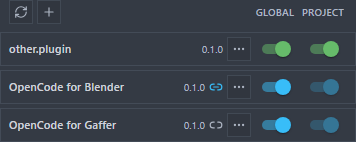
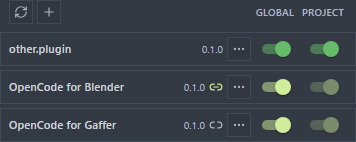
fix(integrations): give integration switches the theme accent, like Yolo
The integration rows' Global/Project switches used a new sky-blue token,
which rendered as a light cyan next to the Yolo switch. CodeNomad switches
use the theme accent everywhere; only plain plugin and MCP activation
switches are the green variant.

The new token is removed from tokens.css. The accent override shared by the
settings and Yolo switches (var(--accent-primary)) becomes ACCENT_SWITCH_SX in
settings-switch.tsx, and PluginActivationSwitch applies it to integration rows
instead of the green variant. The SUID default "primary" colour is not used:
it is read once from the theme and does not follow palette accents. The
attached chain icon uses the accent too.

The browser test turns the real Yolo switch on and checks that its track
and thumb colours equal an integration switch's, and that a plain plugin's
differ. Help pages (ten locales), dev-docs and the documentation captures
are updated.

diff --git a/packages/ui/tests/browser/integration-plugin-row.test.ts b/packages/ui/tests/browser/integration-plugin-row.test.ts
@@ -73,7 +73,7 @@ const resolved = (page: Page, property: string) => page.evaluate(name => {
   return color
 }, property)
 
-test("one Plugins row per integration: display name, version and blue switches; no Status section of its own", async () => {
+test("one Plugins row per integration: display name, version and accent switches; no Status section of its own", async () => {
   const { page, errors } = await open()
   try {
     await row(page).locator(".plugin-control-name").getByText("OpenCode for Blender", { exact: true }).waitFor()
@@ -86,12 +86,19 @@ test("one Plugins row per integration: display name, version and blue switches; 
     assert.equal(await row(page).getAttribute("data-integration"), "blender")
     await row(page).getByRole("checkbox", { name: "Change activation rule for OpenCode for Blender — Global" }).waitFor()
 
-    const accent = await resolved(page, "--integration-accent")
+    // The default accent switch, exactly like Yolo; only plain plugin and MCP rows use the green variant.
+    const accent = await resolved(page, "--session-yolo-accent")
+    assert.equal(accent, await resolved(page, "--accent-primary"))
     // The track animates its colour: wait for it to settle.
     await page.waitForFunction(expected => getComputedStyle(document.querySelector('[data-plugin-id="neuralnomads.blender"] [data-scope="global"] .MuiSwitch-track')!).backgroundColor === expected, accent)
-      .catch(async () => assert.equal(await trackColor(page, "blender"), accent, "an integration's checked switch is the integration blue"))
-    assert.notEqual(accent, await resolved(page, "--session-yolo-accent"), "distinct from the Yolo accent")
+      .catch(async () => assert.equal(await trackColor(page, "blender"), accent, "an integration's checked switch is the Yolo accent"))
     assert.notEqual(await page.locator('[data-plugin-id="other.plugin"] [data-scope="global"] .MuiSwitch-track').evaluate(element => getComputedStyle(element).backgroundColor), accent)
+    // The real Yolo switch, turned on, has exactly the same colour.
+    await page.locator(".yolo-mode-switch input").click()
+    await page.waitForFunction(expected => getComputedStyle(document.querySelector(".yolo-mode-switch .MuiSwitch-track")!).backgroundColor === expected, accent)
+    assert.equal(await page.locator(".yolo-mode-switch .MuiSwitch-thumb").evaluate(element => getComputedStyle(element).backgroundColor),
+      await row(page).locator('[data-scope="global"] .MuiSwitch-thumb').evaluate(element => getComputedStyle(element).backgroundColor))
+    if (screenshots) await page.screenshot({ path: join(screenshots, "integration-plugins-yolo.png"), fullPage: true })
     // The Project switch of a native integration is locked to Global and stays focusable.
     assert.equal(await row(page).locator('[data-scope="project"]').getAttribute("title"), "Global only")
 
@@ -118,7 +125,7 @@ test("the chain icon follows the displayed conversation's attachment, refreshed 
       model.bindings["first:blender"] = { state: "attached", label: "western_ia.blend" }
       await notify(page, "rpc.neuralnomads.blender.hosts_changed")
       await waitLink(page, "attached", "Attached to: western_ia.blend")
-      assert.equal(await link(page).evaluate(element => getComputedStyle(element).color), await resolved(page, "--integration-accent"))
+      assert.equal(await link(page).evaluate(element => getComputedStyle(element).color), await resolved(page, "--accent-primary"))
       if (screenshots) {
         await page.evaluate(() => (document.activeElement as HTMLElement | null)?.blur())
         await page.mouse.move(0, 0)

diff --git a/packages/ui/src/components/plugin-activation-switch.tsx b/packages/ui/src/components/plugin-activation-switch.tsx
@@ -6,13 +6,9 @@ import { getLogger } from "../lib/logger"
 import { showToastNotification } from "../lib/notifications"
 import { HttpResponseError } from "../lib/retryable-file-search"
 import { pluginControlsCache } from "../stores/plugin-controls"
+import { ACCENT_SWITCH_SX } from "./settings/settings-switch"
 
 const log = getLogger("session")
-// Like the Yolo switch's accent override, in the integration accent (styles/tokens.css).
-const INTEGRATION_SWITCH_SX = {
-  "& .MuiSwitch-switchBase.Mui-checked": { color: "var(--integration-accent)" },
-  "& .MuiSwitch-switchBase.Mui-checked + .MuiSwitch-track": { backgroundColor: "var(--integration-accent)" },
-}
 const [pending, setPending] = createSignal<ReadonlySet<string>>(new Set())
 const pendingKey = (instanceId: string, location: PluginControlLocation, scope: PluginControlScope, pluginId: string) =>
   JSON.stringify([instanceId, location.directory, scope, pluginId])
@@ -54,7 +50,7 @@ export function PluginActivationSwitch(props: {
   active?: boolean
   /** Shown but not writable here, with this reason as its tooltip; it stays focusable. */
   lockedReason?: string
-  /** An integration's switch: blue, where a plain plugin's is green. */
+  /** An integration's switch: the accent switch of Yolo and the settings, where a plain plugin's is the green variant. */
   integration?: boolean
 }) {
   const { t } = useI18n()
@@ -84,9 +80,9 @@ export function PluginActivationSwitch(props: {
       <Switch
         checked={props.control ? pluginScopeChecked(props.control, props.scope) : false}
         disabled={!props.available}
-        color="success"
+        color={props.integration ? "primary" : "success"}
         size="small"
-        sx={props.integration ? INTEGRATION_SWITCH_SX : undefined}
+        sx={props.integration ? ACCENT_SWITCH_SX : undefined}
         inputProps={{
           "aria-label": props.label,
           "aria-describedby": props.describedBy,

diff --git a/packages/ui/src/styles/tokens.css b/packages/ui/src/styles/tokens.css
@@ -90,8 +90,6 @@
   --session-status-permission-fg: #b91c1c;
   --session-status-permission-bg: rgba(239, 68, 68, 0.16);
   --session-yolo-accent: var(--accent-primary);
-  /* Integration activation switches: a sky blue beside the Yolo accent, never equal to it. */
-  --integration-accent: #0284c7;
   --list-item-highlight-bg: rgba(0, 102, 255, 0.1);
   --list-item-highlight-bg-solid: #e5f0ff;
   --list-item-highlight-border: rgba(0, 102, 255, 0.25);
@@ -284,7 +282,6 @@
     --session-status-permission-fg: #f87171;
     --session-status-permission-bg: rgba(248, 113, 113, 0.22);
     --session-yolo-accent: var(--accent-primary);
-    --integration-accent: #38bdf8;
   --list-item-highlight-bg: rgba(0, 128, 255, 0.2);
   --list-item-highlight-bg-solid: #15324e;
   --list-item-highlight-border: rgba(0, 128, 255, 0.4);
@@ -384,7 +381,6 @@
   --session-status-permission-fg: #f87171;
   --session-status-permission-bg: rgba(248, 113, 113, 0.22);
   --session-yolo-accent: var(--accent-primary);
-  --integration-accent: #38bdf8;
   --list-item-highlight-bg: rgba(0, 128, 255, 0.2);
   --list-item-highlight-bg-solid: #15324e;
   --list-item-highlight-border: rgba(0, 128, 255, 0.4);

diff --git a/packages/ui/src/components/settings/settings-switch.tsx b/packages/ui/src/components/settings/settings-switch.tsx
@@ -12,6 +12,12 @@ interface SettingsSwitchProps {
   onChange: (checked: boolean) => void
 }
 
+/** The checked colour of an accent switch: the theme accent, as CSS, so palettes apply. */
+export const ACCENT_SWITCH_SX = {
+  "& .MuiSwitch-switchBase.Mui-checked": { color: "var(--accent-primary)" },
+  "& .MuiSwitch-switchBase.Mui-checked + .MuiSwitch-track": { backgroundColor: "var(--accent-primary)" },
+}
+
 /** On/off control for a lone setting: the Yolo switch, in the plain accent color. */
 export const SettingsSwitch: Component<SettingsSwitchProps> = (props) => (
   <Switch
@@ -19,10 +25,7 @@ export const SettingsSwitch: Component<SettingsSwitchProps> = (props) => (
     checked={props.checked}
     disabled={props.disabled}
     size="small"
-    sx={{
-      "& .MuiSwitch-switchBase.Mui-checked": { color: "var(--accent-primary)" },
-      "& .MuiSwitch-switchBase.Mui-checked + .MuiSwitch-track": { backgroundColor: "var(--accent-primary)" },
-    }}
+    sx={ACCENT_SWITCH_SX}
     inputProps={{ role: "switch", "aria-label": props.label, "aria-describedby": props.describedBy }}
     onChange={(_event, checked) => props.onChange(Boolean(checked))}
   />

diff --git a/packages/ui/tests/browser/fixtures/integration-plugin-row.tsx b/packages/ui/tests/browser/fixtures/integration-plugin-row.tsx
@@ -50,6 +50,8 @@ serverApi.fetchConfigOwner = async () => ({ settings: { locale: "en" } }) as any
 serverApi.patchConfigOwner = async (_owner, patch: any) => ({ settings: { locale: "en", ...patch.settings } }) as any
 serverApi.fetchStateOwner = async () => ({} as any)
 serverApi.getPluginControls = async () => { snapshotReads++; return structuredClone(snapshot) }
+// Yolo turns on locally, so its accent switch can be compared with an integration's.
+serverApi.toggleYolo = async () => ({ enabled: true }) as any
 serverApi.setPluginActivation = async (_id: string, request: any) => {
   mutations.push(request)
   const control = snapshot.controls.find(item => item.id === request.pluginId)!

diff --git a/packages/ui/src/styles/components/plugin-integration-row.css b/packages/ui/src/styles/components/plugin-integration-row.css
@@ -20,7 +20,7 @@
 }
 
 .plugin-control-indicator[data-integration-link="attached"] {
-  color: var(--integration-accent);
+  color: var(--accent-primary);
 }
 
 .plugin-control-indicator[data-integration-link="unknown"] {

diff --git a/docs/help/ne/integrations.md b/docs/help/ne/integrations.md
@@ -82,7 +82,7 @@ command परिभाषा र native configuration inheritance का ला
 
 **स्थिति → प्लगइनहरू** को **+** मा **एकीकरण थप्नुहोस्…** वा **प्लगइन थप्नुहोस्…** छान्न सकिन्छ। एकीकरण चयनमा समीक्षा गरिएको सूचीका स्थापना नभएका प्रविष्टि देखिन्छन्। दायरा र **स्थापना गर्नुहोस्** छान्नुहोस्: CodeNomad ले छानिएको सूची ID स्थापना गर्छ। नेटिभ एकीकरण **विश्वव्यापी मात्र** हुन्छन्। **सूची उपलब्ध छैन** मा **ताजा गर्नुहोस्** हुन्छ; **{date} को सूची** ले पुरानो भएको अन्तिम मान्य सूची जनाउँछ।
 
-पहिचान गरिएको एकीकरणको **स्थिति → प्लगइनहरू** मा एउटै पङ्क्ति हुन्छ, जसमा यसको नाम (जस्तै **OpenCode for Blender**) र संस्करण हुन्छ। यसका **विश्वव्यापी** र **परियोजना** स्विच नीला हुन्छन्, साधारण प्लगइनका हरिया हुन्छन्; अनुप्रयोगभित्र भाग भएको एकीकरण **विश्वव्यापी मात्र** हुन्छ। यसको नाममा पोइन्टर लैजानुहोस् वा फोकस गर्नुहोस्: विवरण **प्लगइन** को सट्टा **एकीकरण** बाट सुरु हुन्छ। अस्पष्ट स्रोतमा **मापदण्ड अनुरूप छैन** देखिन्छ।
+पहिचान गरिएको एकीकरणको **स्थिति → प्लगइनहरू** मा एउटै पङ्क्ति हुन्छ, जसमा यसको नाम (जस्तै **OpenCode for Blender**) र संस्करण हुन्छ। यसका **विश्वव्यापी** र **परियोजना** स्विच अन्य स्विचजस्तै एक्सेन्ट रङका हुन्छन्, साधारण प्लगइनका हरिया हुन्छन्; अनुप्रयोगभित्र भाग भएको एकीकरण **विश्वव्यापी मात्र** हुन्छ। यसको नाममा पोइन्टर लैजानुहोस् वा फोकस गर्नुहोस्: विवरण **प्लगइन** को सट्टा **एकीकरण** बाट सुरु हुन्छ। अस्पष्ट स्रोतमा **मापदण्ड अनुरूप छैन** देखिन्छ।
 
 अनुप्रयोगभित्र भाग भएको एकीकरणमा, साङ्लोको आइकनले देखाइएको कुराकानी जनाउँछ: जोडिएको साङ्लोमा **जोडिएको:** र कागजात, टुटेको साङ्लोमा **कुनै कुराकानी जोडिएको छैन**, र एकीकरणले भन्न नसक्दा मधुरो **जडान अवस्था अज्ञात**। पढ्न आइकनमा फोकस गर्नुहोस्। कुराकानीको एजेन्टले पहिलो पटक एकीकरण प्रयोग गर्दा कुराकानी आफैं जोडिन्छ। अनुप्रयोग भाग नभएको, अद्यावधिक चाहिने वा नमिल्ने अवस्थामा मात्र चेतावनी आइकन देखिन्छ। एकीकरणले जनाएका परिवर्तन र पुनः जडानले पङ्क्ति ताजा गर्छन्।
 

diff --git a/dev-docs/PLUGIN_CONTROLS.md b/dev-docs/PLUGIN_CONTROLS.md
@@ -368,5 +368,5 @@ guessed paths.
 - Keep the Plugins surface minimal: plugin names and versions, one compact row-action icon when applicable, and Global/Project switches. The row menu (`components/plugin-row-actions.tsx`, memoized item descriptors) names each exact operation: package check or update with its native target, **Remove from Global/Project** per removable declaration, and Refresh for unconfirmed sources; a single package item keeps its package icon. Put source/status/version/target details, failure `ref`s and the shared-cache effect of package updates in hover/focus tooltips. Do not add general descriptions, inline explanations, target footers or success commentary; source rows carry only a short state label (**Installing**/**Not confirmed**). The compact Refresh and Add icons occupy the name-column header; Refresh spins during loading and refresh; automatic display updates follow native events, reconnects and visible demand. Package writes use native inventory-validated targets, never plugin IDs; styles live in `styles/components/plugin-package-action.css` and `plugin-source-add.css`, and menu chrome is shared with `action-overflow-menu`.
 - The Plugins Add menu (`components/plugin-add-menu.tsx`) uses stable item descriptors for **Add an integration…** and **Add a plugin…**. The integration catalog window (`integration-catalog-window.tsx`) uses shared window primitives, overlay surface, an upper-right close button and reviewed catalog IDs through `pluginSourcesStore.installIntegration`; native integrations lock the focusable scope selector to Global. Confirmation uses the shared 600 ms guard. Installation hints and reconciliation use the existing source store.
 - The Add plugin window (`components/plugin-source-add.tsx`) is a transient `.window-*` popover without a close button: a `--surface-field` spec input, the native scope select (Global default, Project disabled when unavailable), the trust sentence and the Project warning. It closes on success and keeps refusals inline; it never announces an active plugin.
-- A recognized integration has exactly one surface, its Plugins row ([integration rows](OPENCODE_INTEGRATIONS.md#ui-read-model)): display name, version, `PluginActivationSwitch` with its `integration` (blue) flag, the chain icon of the displayed conversation and an attention icon only for an application part to install, update or replace. Its `PluginRowActions` menu adds the connection line, application installation and **Detach the conversation** before the ordinary items. Source ambiguity labels a Plugins row **Non-conforming** and attributes it to no integration. Supplemental integration details use tooltips with localized terse labels.
+- A recognized integration has exactly one surface, its Plugins row ([integration rows](OPENCODE_INTEGRATIONS.md#ui-read-model)): display name, version, `PluginActivationSwitch` with its `integration` flag (the accent switch of Yolo and the settings, `ACCENT_SWITCH_SX`, instead of the green plugin variant), the chain icon of the displayed conversation and an attention icon only for an application part to install, update or replace. Its `PluginRowActions` menu adds the connection line, application installation and **Detach the conversation** before the ordinary items. Source ambiguity labels a Plugins row **Non-conforming** and attributes it to no integration. Supplemental integration details use tooltips with localized terse labels.
 - Plugins that fail before exporting an ID remain visible by their native package target or local path, with failure details in the name tooltip; package entries retain check/update actions. Do not fabricate plugin IDs or activation switches for these entries; reconcile them into ordinary rows once native loading succeeds. Managed failures belong to the attention block.

diff --git a/docs/help/ru/integrations.md b/docs/help/ru/integrations.md
@@ -82,7 +82,7 @@ CodeNomad предоставляет нативные подключения MCP
 
 В **Статус → Плагины** меню **+** предлагает **Добавить интеграцию…** или **Добавить плагин…**. Выбор интеграций содержит неустановленные записи проверенного каталога. Выберите область и **Установить**: CodeNomad устанавливает выбранный ID каталога. Нативные интеграции используют **Только глобально**. **Каталог недоступен** предлагает **Обновить**; **Каталог от {date}** обозначает последний корректный устаревший каталог.
 
-У распознанной интеграции одна строка в **Статус → Плагины** с её названием (например, **OpenCode for Blender**) и версией. Её переключатели **Глобально** и **Проект** синие, у обычного плагина — зелёные; интеграция с частью внутри приложения работает **Только глобально**. Наведите указатель на название или переведите на него фокус: сведения начинаются со слова **Интеграция** вместо **Плагин**. Неоднозначный источник показывает **Не соответствует**.
+У распознанной интеграции одна строка в **Статус → Плагины** с её названием (например, **OpenCode for Blender**) и версией. Её переключатели **Глобально** и **Проект** окрашены в акцентный цвет, как остальные переключатели, у обычного плагина — зелёные; интеграция с частью внутри приложения работает **Только глобально**. Наведите указатель на название или переведите на него фокус: сведения начинаются со слова **Интеграция** вместо **Плагин**. Неоднозначный источник показывает **Не соответствует**.
 
 Для интеграции с частью внутри приложения значок цепочки показывает состояние открытой беседы: целая цепочка с **Подключена к:** и документом, разорванная с **Нет подключённой беседы**, приглушённая с **Подключение неизвестно**, когда интеграция не может сказать. Переведите фокус на значок, чтобы прочитать его. Беседа подключается сама, когда её агент впервые использует интеграцию. Значок предупреждения появляется, только если части в приложении нет, её нужно обновить или она несовместима. Изменения, о которых сообщает интеграция, и переподключения обновляют строку.
 

diff --git a/docs/help/fr/integrations.md b/docs/help/fr/integrations.md
@@ -82,7 +82,7 @@ Pour les définitions de commandes et l’héritage de configuration natif, util
 
 Dans **Statut → Plugins**, **+** propose **Ajouter une intégration…** ou **Ajouter un plugin…**. Le sélecteur d’intégrations liste les entrées non installées du catalogue revu. Choisissez la portée puis **Installer** : CodeNomad installe l’ID du catalogue choisi. Les intégrations natives sont **Global uniquement**. **Catalogue indisponible** propose **Actualiser** ; **Catalogue du {date}** indique le dernier catalogue valide s’il est périmé.
 
-Une intégration reconnue a une seule ligne dans **Statut → Plugins**, avec son nom (par exemple **OpenCode for Blender**) et sa version. Ses interrupteurs **Global** et **Projet** sont bleus, ceux d’un plugin simple sont verts ; une intégration qui a une partie dans une application est **Global uniquement**. Survolez ou focalisez son nom : les détails commencent par **Intégration** au lieu de **Plugin**. Une source ambiguë affiche **Non conforme**.
+Une intégration reconnue a une seule ligne dans **Statut → Plugins**, avec son nom (par exemple **OpenCode for Blender**) et sa version. Ses interrupteurs **Global** et **Projet** prennent la couleur d’accent comme les autres interrupteurs, ceux d’un plugin simple sont verts ; une intégration qui a une partie dans une application est **Global uniquement**. Survolez ou focalisez son nom : les détails commencent par **Intégration** au lieu de **Plugin**. Une source ambiguë affiche **Non conforme**.
 
 Pour une intégration qui a une partie dans une application, une icône de chaînon indique la conversation affichée : chaînon fermé avec **Rattachée à :** et le document, chaînon rompu avec **Aucune conversation rattachée**, estompé avec **Rattachement inconnu** quand l’intégration ne sait pas le dire. Focalisez l’icône pour la lire. Une conversation se rattache d’elle-même la première fois que son agent utilise l’intégration. Une icône d’alerte n’apparaît que si la partie installée dans l’application est absente, à mettre à jour ou incompatible. Les changements signalés par l’intégration et les reconnexions actualisent la ligne.
 
